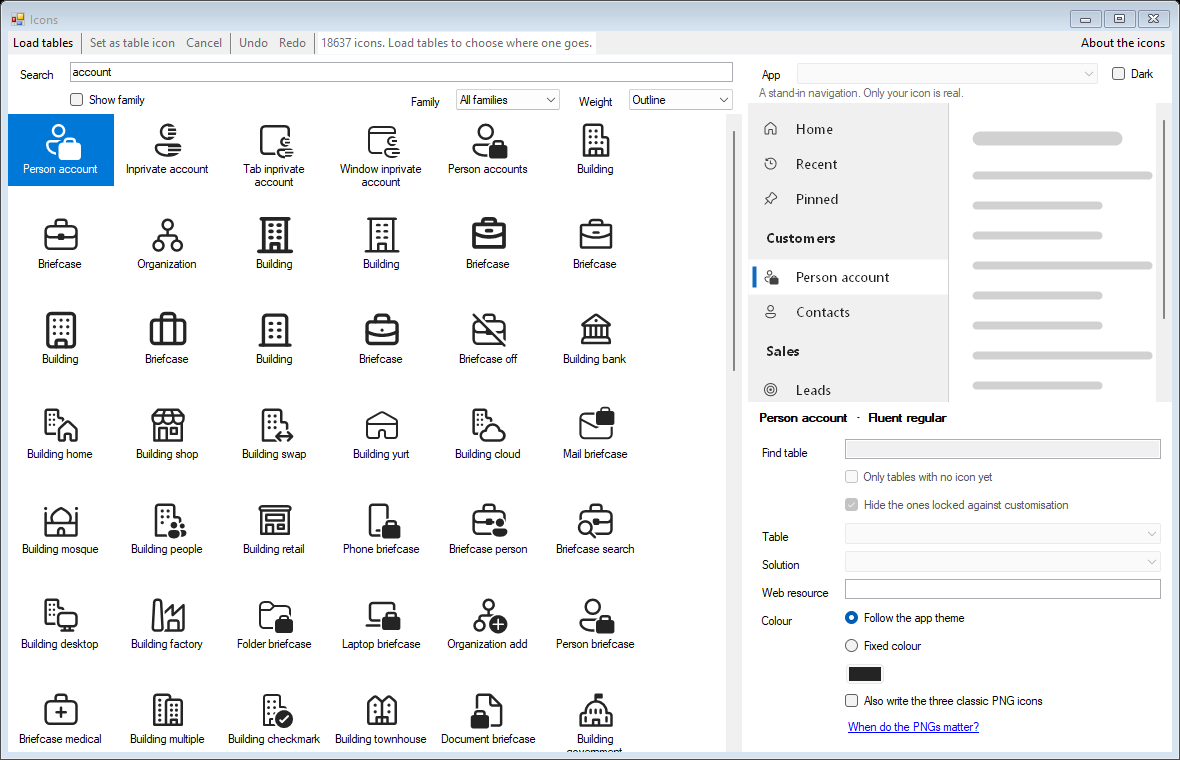
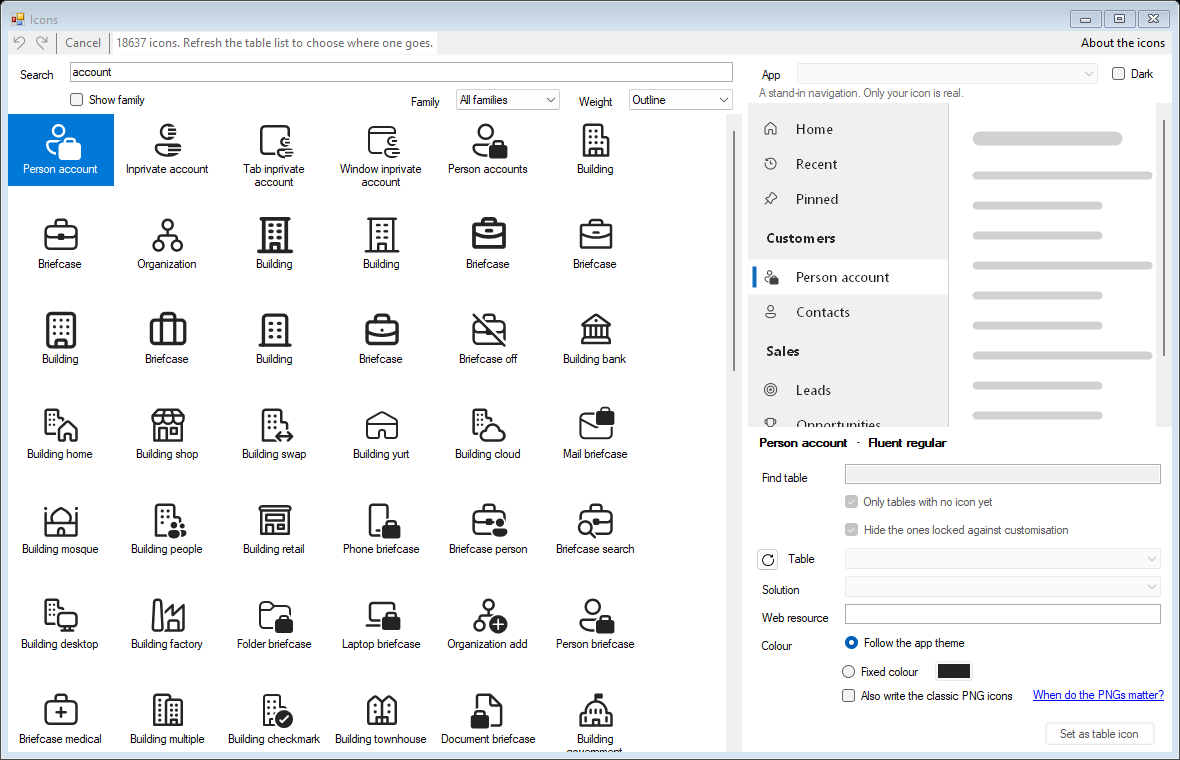
Say in the docs what moved, and photograph it

diff --git a/README.md b/README.md
@@ -46,8 +46,10 @@ resources, update table definitions and publish customisations.
   and choosing one says under the table box why it is a dead end.
 - **See which tables still need one** — the load reads each table's current icon along with
   everything else, so *Only tables with no icon yet* narrows the list to the ones nobody has got
-  to, without another round trip. A table leaves that list the moment you give it an icon, so it
-  stays a working list rather than something to re-read.
+  to, without another round trip. It is ticked when the window opens, because that list is the
+  errand; the full one is a click away, for when you have come to change an icon that is already
+  there. A table leaves the narrowed list the moment you give it an icon, so it stays a working
+  list rather than something to re-read.
 - **Guesses where your icons live** — the same load reads where every icon this environment
   already has is stored, so the name it suggests follows your convention rather than this tool's.
   A table that already has an icon of yours is offered that exact name, so applying updates it
@@ -89,9 +91,10 @@ resources, update table definitions and publish customisations.
 
 1. Open the tool. The library is inside it, so you can browse and search before connecting.
 2. Connecting reads the environment's tables and its unmanaged solutions by itself — half a
-   second against a real environment, which is not worth a click. **Load tables** is there for
-   reading them again after somebody has changed something.
-3. Pick the table, and the unmanaged solution new web resources go into. Type enough of a table's
+   second against a real environment, which is not worth a click. The refresh button beside the
+   table list is there for reading them again after somebody has changed something.
+3. Pick the table, and the unmanaged solution new web resources go into. The list starts on the
+   tables with no icon yet; untick *Only tables with no icon yet* for all of them. Type enough of a table's
    name to leave one and that one is chosen. The solution is required:
    without one they would land in the default solution, where nothing you ship can see them. The
    solution you set as your preferred one in the maker portal is chosen for you and is the row the
@@ -106,14 +109,14 @@ resources, update table definitions and publish customisations.
    written over — and press Enter to move into the results, where the arrow keys walk them.
 5. Choose the theme colour or a fixed one, and look at the navigation above the form: that is
    the row your icon will be, beside the rows it will be beside.
-6. **Set as table icon**, and confirm. The status line says what was set on what; hover it for
+6. **Set as table icon**, bottom right, and confirm. The status line says what was set on what; hover it for
    which web resources were created, which were updated, and what was published.
 7. Wrong icon on that one? **Ctrl+Z**, and confirm — the table goes back to what it had, and the
    window lands on it again with the library still open. **Ctrl+Y** puts it back. Inside a text
    box Ctrl+Z is left alone: there it still means the name you were halfway through typing.
 
-With *Only tables with no icon yet* ticked, applying drops that table out of the list and lands on
-the next one waiting — a name suggested for it, a search already made for it — so a run down the
+With *Only tables with no icon yet* ticked — which is how the window opens — applying drops
+that table out of the list and lands on the next one waiting — a name suggested for it, a search already made for it — so a run down the
 list is pick an icon, apply, pick an icon, apply.
 
 Running it a second time on the same table updates the same web resource rather than leaving a

diff --git a/CHANGELOG.md b/CHANGELOG.md
@@ -5,6 +5,26 @@ the package page, so it has to stand on its own.
 
 ## Unreleased
 
+- **Reading the environment is a refresh button beside the table list it fills, rather than a caption in the toolbar.** Nothing but that button puts tables in that box, so it belongs beside the box rather than at the top of a window with everything else. The arrow is drawn out of the library the tool is built to browse, at the moment it opens, rather than kept as a resource of its own.
+
+  ![The refresh beside the table list](https://raw.githubusercontent.com/comentality/xrm-icons/main/docs/images/release/refresh-table.png)
+
+- **Set as table icon moved to the bottom right of the form it sends, which is where a window that fills something in keeps its last button.** It is the last thing done to what the form says — a table, a solution, a name, a colour, and then this — and it was sitting three inches away from all of it. The red line that says why a write failed still reads above it, so the reason and the retry are in the same place.
+
+  ![Set as table icon, bottom right](https://raw.githubusercontent.com/comentality/xrm-icons/main/docs/images/release/apply-button.png)
+
+- **Undo and redo are drawn as the two arrows everybody already knows, out of the same bundled library.** The captions were only taking width: what those buttons would take back is a table and an icon by name, which changes with every write, so the meaning was in the tooltip all along and still is.
+
+  ![Undo and redo, as arrows](https://raw.githubusercontent.com/comentality/xrm-icons/main/docs/images/release/undo-redo.png)
+
+- **The colour swatch sits on the Fixed colour line, and the PNG question on the line of the box it answers.** Each pair was reading as two settings on two rows when it is one setting and its answer. Which colour, right there; and where to find out whether to tick the box, right beside it.
+
+  ![The colour swatch and the PNG link, inline](https://raw.githubusercontent.com/comentality/xrm-icons/main/docs/images/release/inline-pairs.png)
+
+- **The window opens with Only tables with no icon yet ticked, because that list is the errand.** Giving icons to the tables that have none is why anybody opens this tool; the full list is one click away, for when you have come to change an icon that is already there. A table still leaves the narrowed list the moment you give it one.
+
+  ![Only tables with no icon yet, ticked](https://raw.githubusercontent.com/comentality/xrm-icons/main/docs/images/release/unset-only-open.png)
+
 - **The icon is drawn into an app's navigation inside the tool's window, where two colour swatches were.** It used to be a window you had to ask for, and the pane it now fills was spending its height on the same drawing twice, big on white and big on black. Those answered "does this survive both themes", which the navigation answers too — through its own *Dark* box, in the app's own colours rather than a swatch's — and they could not answer the question actually being asked, which is not what the drawing looks like but whether the row reads beside the rows it will be beside. Choosing an app still reads that app's own site map; the app list is now read at the end of the load rather than when a window opened, and an app list that will not come back costs the preview and nothing else.
 
   ![The icon in an app's navigation, in the tool's own window](https://raw.githubusercontent.com/comentality/xrm-icons/main/docs/images/release/in-context-embedded.png)

diff --git a/docs/metadata-cache.md b/docs/metadata-cache.md
@@ -46,8 +46,8 @@ published a minute earlier showed up in both, as did an icon written a minute ea
 The tool asks the org. It is half a second, it is the same half a second whether or not anybody
 has touched the environment today, and it does not depend on XrmToolBox having loaded something
 first. Half a second also turned out to be cheap enough to spend without being asked, so a
-connection now loads the environment by itself and **Load tables** is a refresh — but that is a
-conclusion about the direct call, not about the cache.
+connection now loads the environment by itself and the button beside the table list is a refresh
+rather than the way in — but that is a conclusion about the direct call, not about the cache.
 
 Two smaller findings from the same run, worth knowing if you go near this:
 
